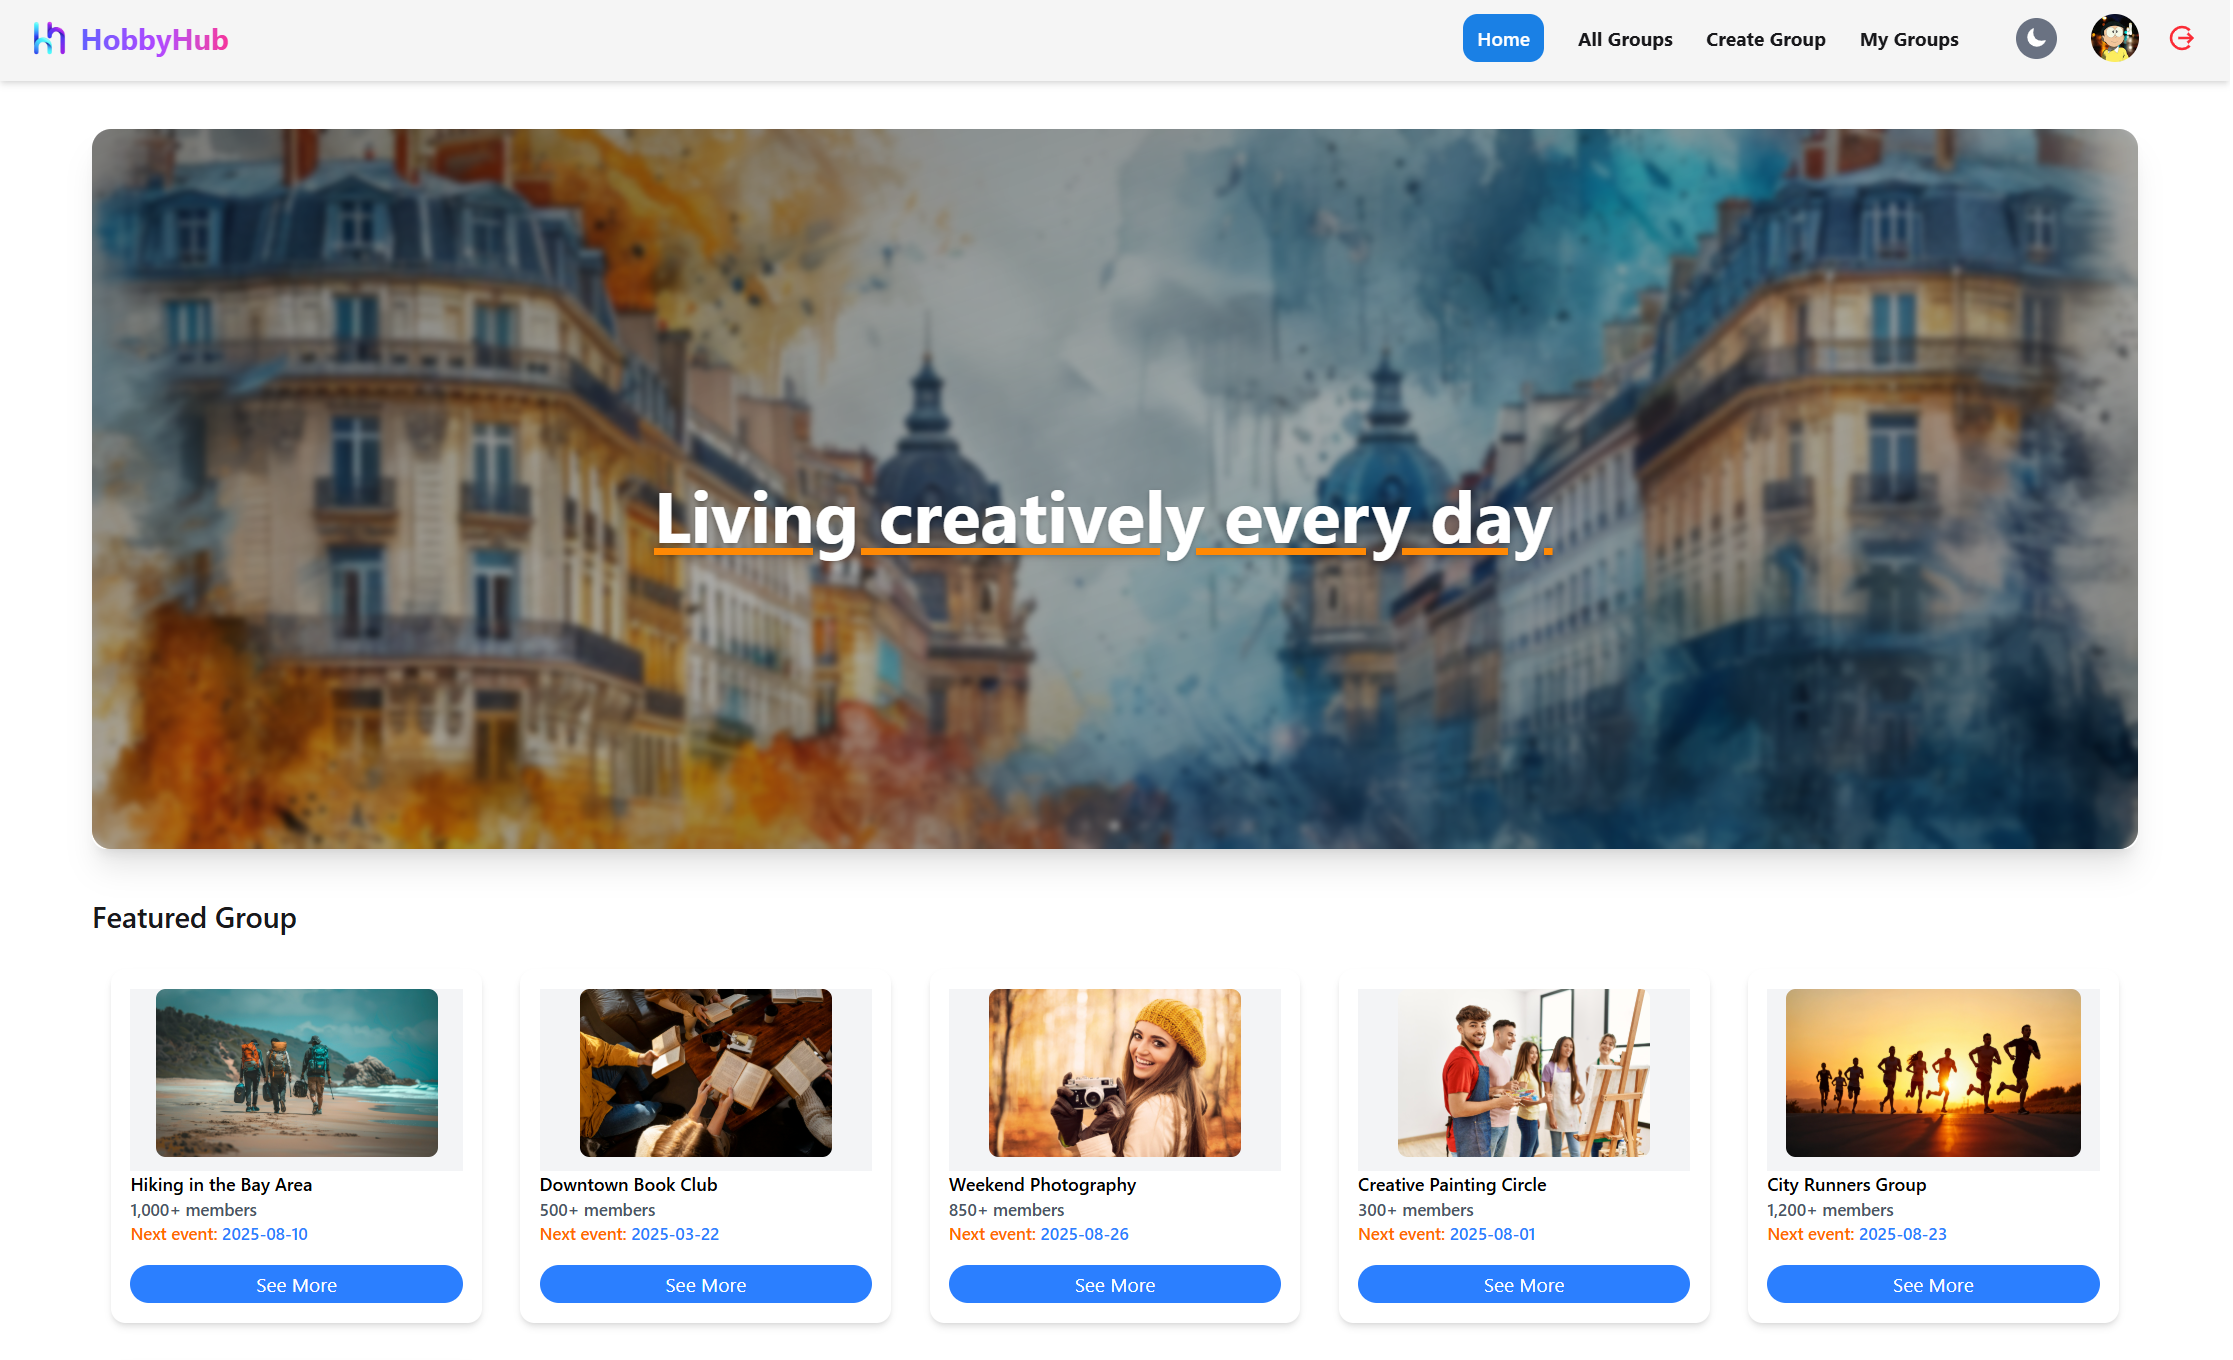
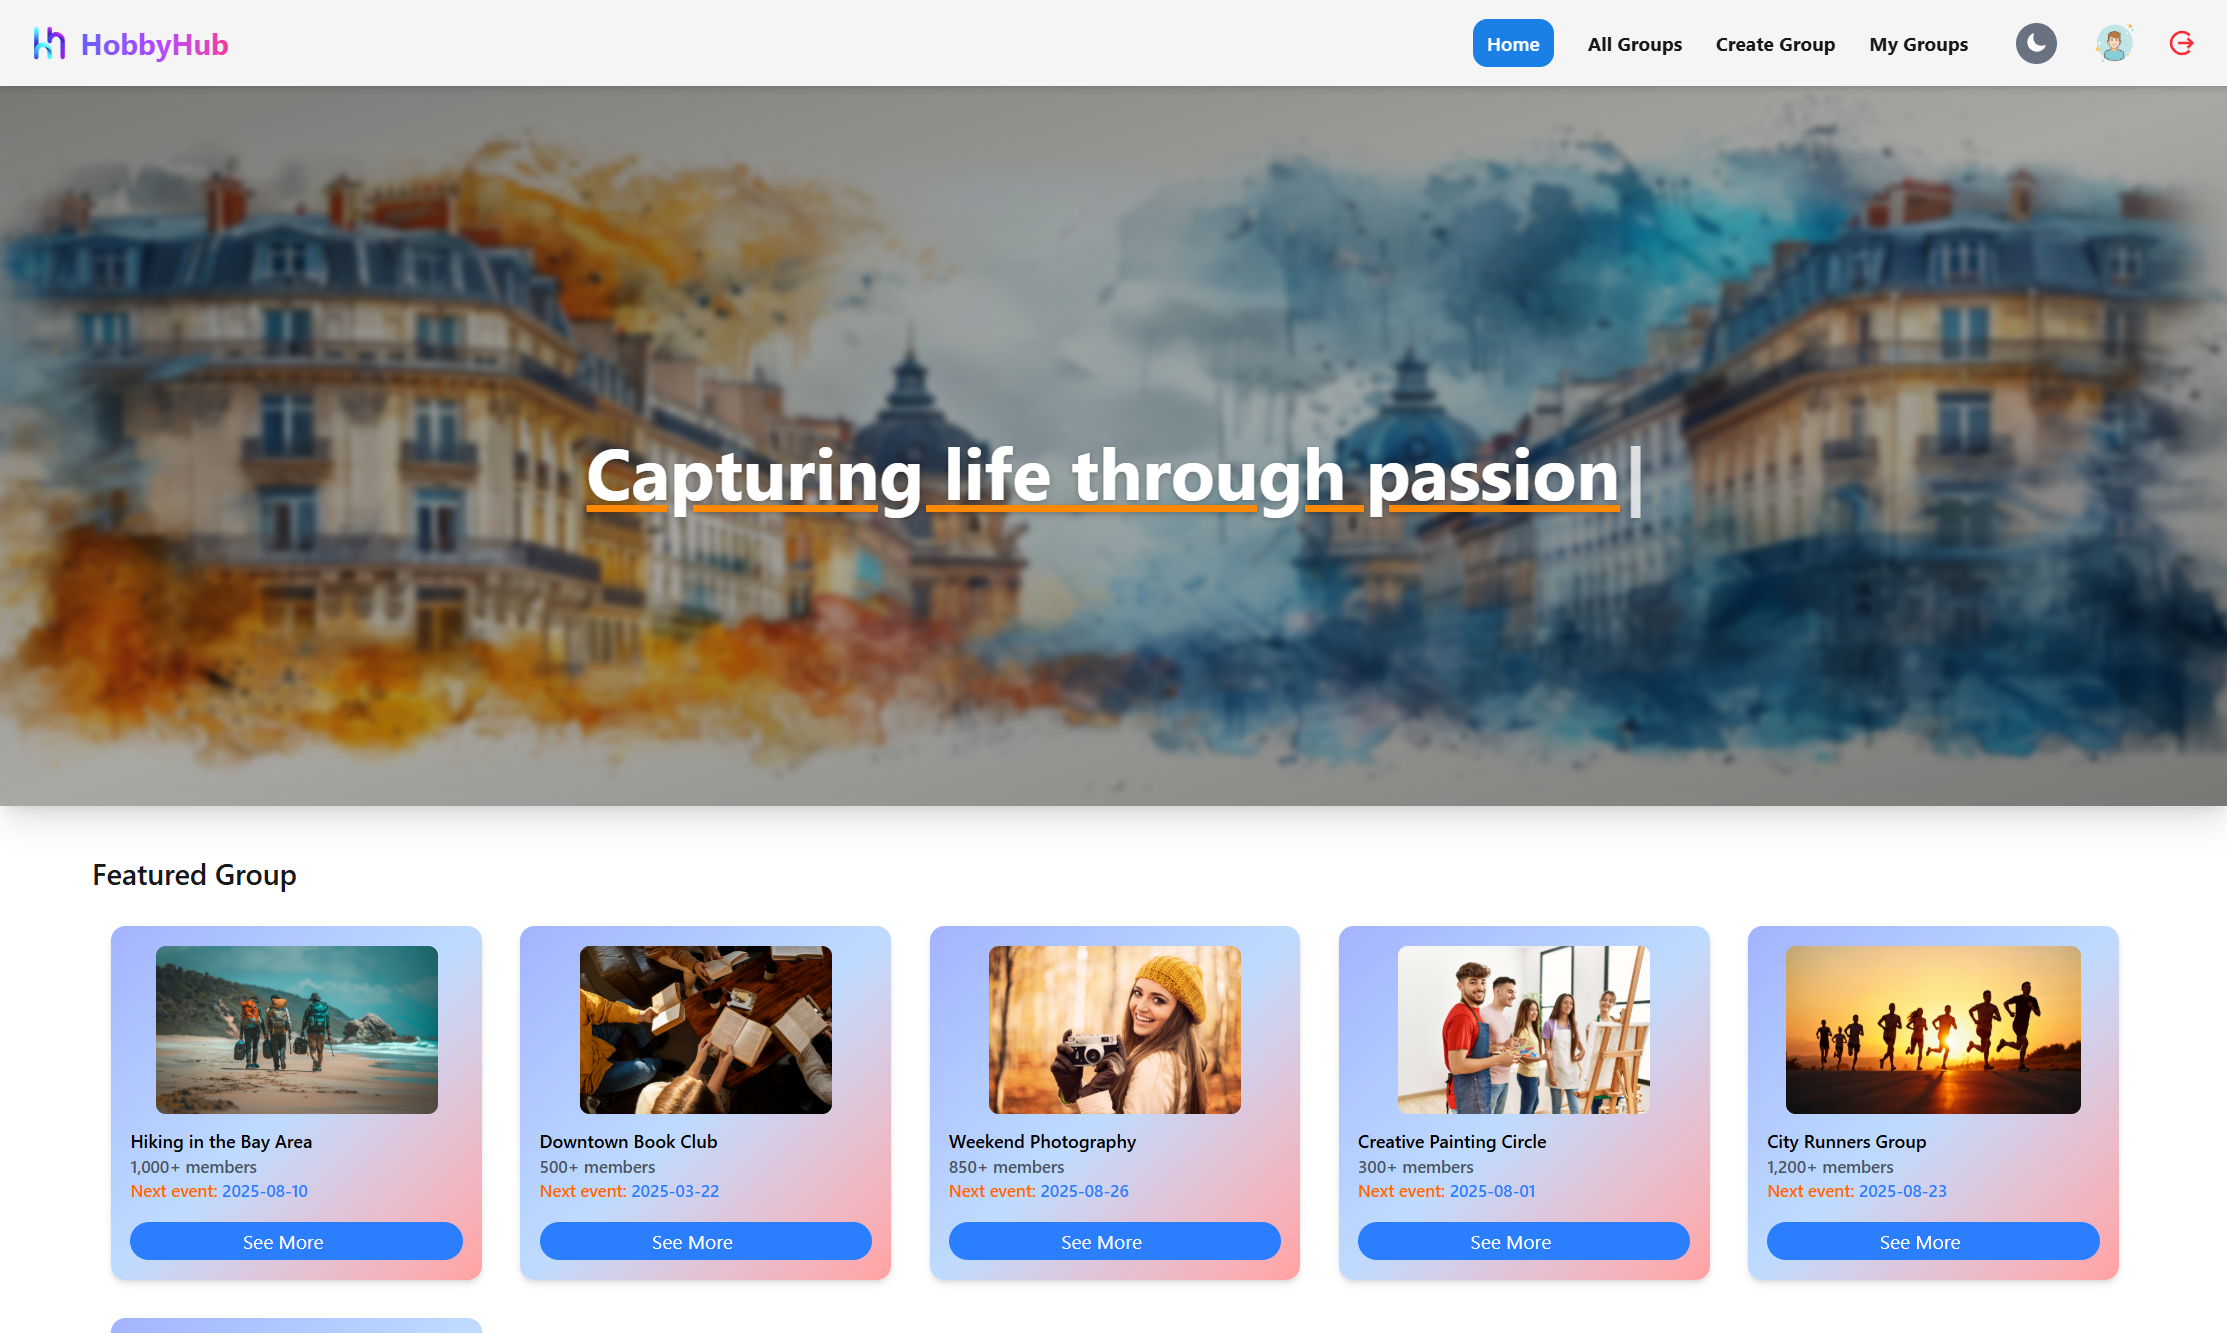
changed font and add some gradient color

diff --git a/src/pages/MyGroup.jsx b/src/pages/MyGroup.jsx
@@ -57,27 +57,27 @@ const MyGroup = () => {
 
   return (
     <div className="w-full min-h-[calc(100vh-370px)] mx-auto px-4 sm:px-6 lg:px-8 py-8">
-      <h2 className="text-2xl sm:text-3xl font-bold mb-10">Groups</h2>
+      <h2 className="font-bold mb-10 text-fuchsia-500 font-[Playwrite_HU] md:hidden">My Groups</h2>
       {loading ? (
         <div className="min-h-[calc(100vh-457px)] flex items-center justify-center gap-2">
           <span className="text-xl text-blue-500">Loading Groups</span>
           <div className="w-7 h-7 border-4 border-blue-500 border-t-red-500 border-r-green-500 border-b-yellow-500 rounded-full animate-spin"></div>
         </div>
       ) : groups.length === 0 ? (
-        <div className="text-center mt-10">
+        <div className="text-center md:mt-50">
           <img
             src={nodata}
             alt="No groups"
-            className="mx-auto w-40 opacity-80"
+            className="mx-auto md:w-80 w-40 opacity-80 rounded-bl-4xl rounded-tr-4xl shadow-[0_0_30px_#F75A5A]"
           />
-          <h2 className="text-xl font-semibold text-gray-600 mt-4">
+          <h2 className="text-xl md:text-2xl font-semibold mt-4">
             No groups created yet
           </h2>
-          <p className="text-gray-500 mt-2">
+          <p className="mt-2">
             Start by creating your first group!
           </p>
           <NavLink to="/createGroup">
-            <button className="mt-4 text-white px-4 py-2 rounded-md bg-gradient-to-br from-indigo-500 via-purple-500 to-pink-500 cursor-pointer hover:shadow-[0_0_20px_#F75A5A] hover:scale-95 transition-all">
+            <button className="mt-4 text-white px-4 py-2 md:px-8 md:py-3 rounded-md bg-gradient-to-br from-indigo-500 via-purple-500 to-pink-500 cursor-pointer hover:shadow-[0_0_20px_#F75A5A] hover:scale-95 transition-all md:text-xl">
               Create Group
             </button>
           </NavLink>
@@ -85,8 +85,8 @@ const MyGroup = () => {
       ) : (
         <div className="overflow-x-auto rounded-lg shadow">
           <div className="hidden md:block">
-            <table className="min-w-full bg-white text-sm sm:text-base text-left text-gray-700">
-              <thead className="bg-gray-100 text-gray-800 font-semibold">
+            <table className="min-w-full bg-gradient-to-br from-orange-400 via-blue-200 to-red-200 text-sm sm:text-base text-left text-gray-700">
+              <thead className="font-semibold">
                 <tr>
                   <th className="px-6 py-3">Group Name</th>
                   <th className="px-6 py-3">Description</th>
@@ -100,7 +100,7 @@ const MyGroup = () => {
                 {groups.map((group, index) => (
                   <tr
                     key={index}
-                    className="border-t hover:bg-gray-50 transition-colors"
+                    className="border-t transition-colors"
                   >
                     <td className="px-6 py-4 font-medium">{group.groupName}</td>
                     <td className="px-6 py-4 text-blue-600 md:w-[300px]">

diff --git a/src/components/Navbar.jsx b/src/components/Navbar.jsx
@@ -37,7 +37,7 @@ const Navbar = () => {
         </div>
         <NavLink className="flex items-center" to="/">
           <img className="md:w-10 w-7 rounded-full" src={logo} alt="" />
-          <h2 className="font-bold text-xl md:text-2xl md:ml-2 bg-gradient-to-r from-indigo-500 via-purple-500 to-pink-500 text-transparent bg-clip-text">
+          <h2 className="font-bold text-xl md:text-2xl md:ml-2 bg-gradient-to-r from-indigo-500 via-purple-500 to-pink-500 text-transparent bg-clip-text font-[Nova_Cut]">
             HobbyHub
           </h2>
         </NavLink>
@@ -50,7 +50,7 @@ const Navbar = () => {
           className={({ isActive }) =>
             `${
               isActive
-                ? "bg-[#1A80E5] py-2 px-3 rounded-xl font-semibold text-white"
+                ? "bg-gradient-to-br from-orange-500 via-pink-500 to-red-400 py-1 px-2 rounded-bl-2xl rounded-tr-2xl font-semibold text-white"
                 : ""
             } hidden lg:block`
           }
@@ -63,7 +63,7 @@ const Navbar = () => {
           className={({ isActive }) =>
             `${
               isActive
-                ? "bg-[#1A80E5] py-2 px-3 rounded-xl font-semibold text-white"
+                ? "bg-gradient-to-br from-orange-500 via-pink-500 to-red-400 py-1 px-2 rounded-bl-2xl rounded-tr-2xl font-semibold text-white"
                 : ""
             } hidden lg:block`
           }
@@ -76,7 +76,7 @@ const Navbar = () => {
           className={({ isActive }) =>
             `${
               isActive
-                ? "bg-[#1A80E5] py-2 px-3 rounded-xl font-semibold text-white"
+                ? "bg-gradient-to-br from-orange-500 via-pink-500 to-red-400 py-1 px-2 rounded-bl-2xl rounded-tr-2xl font-semibold text-white"
                 : ""
             } hidden lg:block`
           }
@@ -89,7 +89,7 @@ const Navbar = () => {
           className={({ isActive }) =>
             `${
               isActive
-                ? "bg-[#1A80E5] py-2 px-3 rounded-xl font-semibold text-white"
+                ? "bg-gradient-to-br from-orange-500 via-pink-500 to-red-400 py-1 px-2 rounded-bl-2xl rounded-tr-2xl font-semibold text-white"
                 : ""
             } hidden lg:block mr-3`
           }

diff --git a/src/components/TestimonialsSection.jsx b/src/components/TestimonialsSection.jsx
@@ -3,7 +3,7 @@ import Marquee from "react-fast-marquee";
 const TestimonialsSection = () => {
   return (
     <div className="my-12 md:p-4 p-2 bg-base-300 rounded-xl text-center">
-      <h2 className="md:text-3xl text-xl font-bold  mb-8">What Our Members Say</h2>
+      <h2 className="md:text-2xl text-xl font-semibold text-[#f74477e1] font-[Playwrite_HU] text-shadow-[0px_0px_20px_red] mb-8">What Our Members Say</h2>
       <div className="rounded-md overflow-hidden">
         <Marquee pauseOnHover={true}>
           <div className="bg-gradient-to-br from-orange-300  to-green-400 shadow-lg p-6 rounded-lg md:w-72 w-70 mr-3 skew-x-6">

diff --git a/src/components/FeaturedGroup.jsx b/src/components/FeaturedGroup.jsx
@@ -3,7 +3,7 @@ import GroupCard from "./GroupCard";
 const FeaturedGroup = ({ groups }) => {
   return (
     <div className="space-y-3">
-      <h2 className="text-2xl font-semibold">Featured Group</h2>
+      <h2 className="md:text-2xl text-xl font-semibold text-[#dc145d] text-shadow-[0px_0px_20px_red] font-[Playwrite_HU]">Featured Group</h2>
       <div className="grid grid-cols-2 md:grid-cols-3 lg:grid-cols-5 gap-8 p-4">
         {groups.map((group) => (
           <GroupCard key={group._id} group={group}></GroupCard>

diff --git a/src/components/NewestGroup.jsx b/src/components/NewestGroup.jsx
@@ -4,7 +4,7 @@ import GroupCard from "./GroupCard";
 const NewestGroup = ({ groups }) => {
   return (
     <div className="space-y-3">
-      <h2 className="text-2xl font-semibold">Newest Group</h2>
+      <h2 className="md:text-2xl text-xl font-semibold text-[#dc145d] text-shadow-[0px_0px_20px_red] font-[Playwrite_HU]">Newest Group</h2>
       <div className="grid grid-cols-2 md:grid-cols-3 lg:grid-cols-5 gap-8 p-4">
         {groups.map((group) => (
           <GroupCard key={group._id} group={group}></GroupCard>

diff --git a/src/index.css b/src/index.css
@@ -1,6 +1,11 @@
+@import url("https://fonts.googleapis.com/css2?family=Ancizar+Sans:ital,wght@0,100..1000;1,100..1000&family=Nova+Cut&family=Playwrite+HU:wght@100..400&display=swap");
 @import "tailwindcss";
 @plugin "daisyui";
 
 @tailwind base;
 @tailwind components;
 @tailwind utilities;
+
+body {
+  font-family: "Ancizar Sans", sans-serif;
+}

diff --git a/src/components/Slider.jsx b/src/components/Slider.jsx
@@ -14,7 +14,7 @@ const Slider = () => {
   ];
 
   return (
-    <div className="w-full relative overflow-hidden shadow-xl mb-10">
+    <div className="w-full relative overflow-hidden shadow-xl mb-10 font-[Playwrite_HU]">
       <Carousel
         showThumbs={false}
         autoPlay
